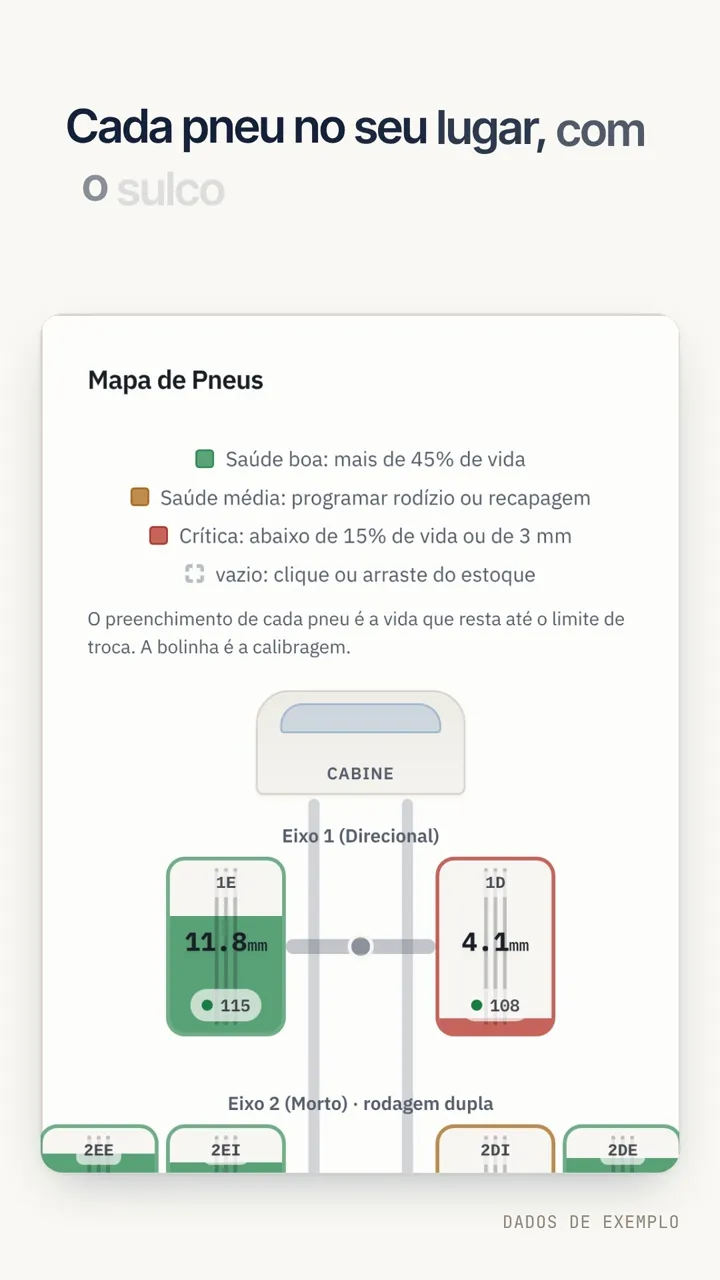
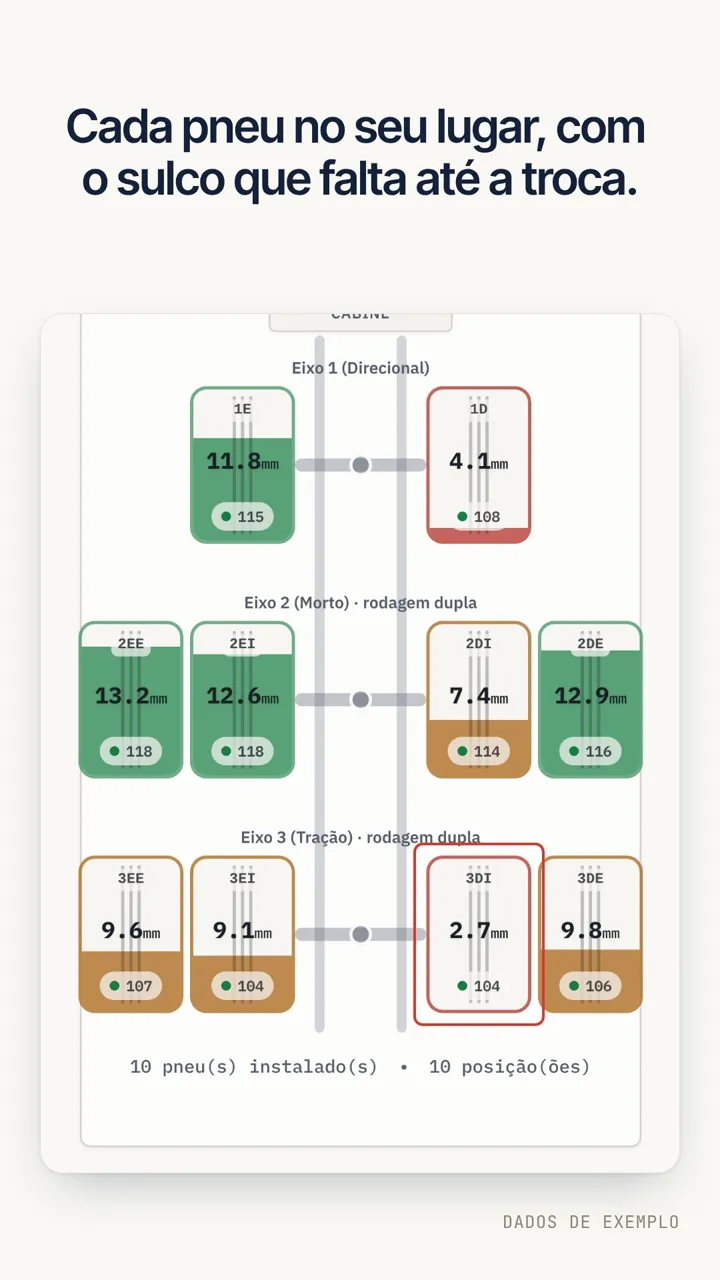
Vídeo da Rastro tocando sozinho no case da inicial e vídeos dos cases sem botões
O case da Rastro na inicial ganha o cartão de vídeo como o da AUTH, com o fundo
claro do aplicativo. Nas páginas de case, o vídeo roda sem som quando aparece
na tela e para fora dela. Capa do vídeo trocada por um quadro parado.

Claude-Session: https://claude.ai/code/session_01E9WneMCWodMVnJEBvg42YX

Changed region(s): [[0.0306, 0.25, 0.9472, 0.9375], [0.0917, 0.0938, 0.9167, 0.1562]]

diff --git a/cases/rastro/index.html b/cases/rastro/index.html
@@ -202,7 +202,7 @@
         </section>
 
         <style>.video-cel{display:none}@media (max-width:767px){.video-pc{display:none}.video-cel{display:block;margin:0 auto}}</style>
-        <p><video class="video-pc" muted loop playsinline controls preload="none" poster="/tela-rastro.webp" width="1280" height="720" style="max-width:100%;height:auto;background:#f9f8f4" aria-label="Vídeo sem som do aplicativo da Rastro: o mapa de pneus do caminhão, a medição pelo celular, as carcaças na recapadora e o painel do mês"><source src="/tela-rastro.mp4" type="video/mp4"><source src="/tela-rastro.webm" type="video/webm"></video><video class="video-cel" muted loop playsinline controls preload="none" poster="/tela-rastro-vertical.webp" width="720" height="1280" style="max-width:100%;height:auto;background:#f9f8f4" aria-label="Vídeo sem som do aplicativo da Rastro: o mapa de pneus do caminhão, a medição pelo celular, as carcaças na recapadora e o painel do mês"><source src="/tela-rastro-vertical.mp4" type="video/mp4"><source src="/tela-rastro-vertical.webm" type="video/webm"></video></p>
+        <p><video class="video-pc video-auto" muted loop playsinline disablepictureinpicture preload="none" poster="/tela-rastro.webp" width="1280" height="720" style="max-width:100%;height:auto;background:#f9f8f4" aria-label="Vídeo sem som do aplicativo da Rastro: o mapa de pneus do caminhão, a medição pelo celular, as carcaças na recapadora e o painel do mês"><source src="/tela-rastro.mp4" type="video/mp4"><source src="/tela-rastro.webm" type="video/webm"></video><video class="video-cel video-auto" muted loop playsinline disablepictureinpicture preload="none" poster="/tela-rastro-vertical.webp" width="720" height="1280" style="max-width:100%;height:auto;background:#f9f8f4" aria-label="Vídeo sem som do aplicativo da Rastro: o mapa de pneus do caminhão, a medição pelo celular, as carcaças na recapadora e o painel do mês"><source src="/tela-rastro-vertical.mp4" type="video/mp4"><source src="/tela-rastro-vertical.webm" type="video/webm"></video></p>
         <p class="suave">O aplicativo de pneus que a GenesisKore construiu para a Rastro. Dados de exemplo.</p>
 
         <h2>O que mais o aplicativo faz?</h2>
@@ -247,6 +247,22 @@
         <p>© 2026 GenesisKore. Sistemas sob medida e consultoria de gestão.</p>
     </footer>
     <script src="/contagem.js" defer></script>
+    <script>
+    (() => {
+        const videos = [...document.querySelectorAll('video.video-auto')];
+        if (!videos.length || !('IntersectionObserver' in window)) return;
+        if (window.matchMedia('(prefers-reduced-motion: reduce)').matches) return;
+        const ver = new IntersectionObserver((entradas) => {
+            entradas.forEach((e) => {
+                const v = e.target;
+                if (e.isIntersecting && e.intersectionRatio >= 0.5 && !document.hidden) { v.preload = 'auto'; v.play().catch(() => {}); }
+                else v.pause();
+            });
+        }, { threshold: [0, 0.5, 0.75] });
+        videos.forEach((v) => { v.muted = true; ver.observe(v); });
+        document.addEventListener('visibilitychange', () => { if (document.hidden) videos.forEach((v) => v.pause()); });
+    })();
+    </script>
     <a class="conversa-fixa" href="/conversar/">Quero meu diagnóstico</a>
 </body>
 </html>

diff --git a/cases/auth/index.html b/cases/auth/index.html
@@ -181,7 +181,7 @@
         <p class="suave">Atualizado em 13/11/2026.</p>
         <blockquote>500% mais capacidade de avaliação, sem contratar mais gente.</blockquote>
         <p class="suave">Número divulgado pela própria AUTH: aumento da capacidade de avaliação da equipe, com as mesmas pessoas.</p>
-        <p><video muted loop playsinline controls preload="none" poster="/tela-auth-fila.webp" width="1006" height="948" style="max-width:100%;height:auto;background:#000" aria-label="Vídeo sem som da plataforma da AUTH: a fila de autenticação, o checklist da peça, o certificado emitido e a conferência pelo celular"><source src="/tela-auth.mp4" type="video/mp4"><source src="/tela-auth.webm" type="video/webm"></video></p>
+        <p><video class="video-auto" muted loop playsinline disablepictureinpicture preload="none" poster="/tela-auth-fila.webp" width="1006" height="948" style="max-width:100%;height:auto;background:#000" aria-label="Vídeo sem som da plataforma da AUTH: a fila de autenticação, o checklist da peça, o certificado emitido e a conferência pelo celular"><source src="/tela-auth.mp4" type="video/mp4"><source src="/tela-auth.webm" type="video/webm"></video></p>
         <p class="suave">A plataforma da AUTH em uso: fila, checklist, certificado e conferência pelo celular. Dados de exemplo.</p>
         <h2>O que o fundador da AUTH diz?</h2>
         <blockquote>&ldquo;A GenesisKore tornou nossos processos na AUTH muito mais rápidos, completos e seguros.&rdquo;</blockquote>
@@ -226,6 +226,22 @@
         <p>© 2026 GenesisKore. Sistemas sob medida e consultoria de gestão.</p>
     </footer>
     <script src="/contagem.js" defer></script>
+    <script>
+    (() => {
+        const videos = [...document.querySelectorAll('video.video-auto')];
+        if (!videos.length || !('IntersectionObserver' in window)) return;
+        if (window.matchMedia('(prefers-reduced-motion: reduce)').matches) return;
+        const ver = new IntersectionObserver((entradas) => {
+            entradas.forEach((e) => {
+                const v = e.target;
+                if (e.isIntersecting && e.intersectionRatio >= 0.5 && !document.hidden) { v.preload = 'auto'; v.play().catch(() => {}); }
+                else v.pause();
+            });
+        }, { threshold: [0, 0.5, 0.75] });
+        videos.forEach((v) => { v.muted = true; ver.observe(v); });
+        document.addEventListener('visibilitychange', () => { if (document.hidden) videos.forEach((v) => v.pause()); });
+    })();
+    </script>
     <a class="conversa-fixa" href="/conversar/">Quero meu diagnóstico</a>
 </body>
 </html>

diff --git a/index.html b/index.html
@@ -1046,6 +1046,24 @@
                             <p class="resultado-numero">Zero</p>
                             <p>trabalho manual entre a medição e a decisão de cada pneu.</p>
                         </div>
+                        <figure class="case-telas case-telas-claro">
+                            <!-- 15/11/2026, pedido do Felipe: o vídeo das telas reais do aplicativo da Rastro, como o da AUTH.
+                                 Sem som, frota inventada (dados de exemplo). Fundo claro porque o aplicativo é claro. -->
+                            <video class="case-video case-video-largo" muted loop playsinline disablepictureinpicture preload="none" data-poster="tela-rastro.webp" width="1280" height="720"
+                                aria-label="Vídeo sem som do aplicativo de pneus que a GenesisKore construiu para a Rastro: o mapa do caminhão, a medição pelo celular, a recapagem e o painel do mês">
+                                <source src="tela-rastro.mp4" type="video/mp4">
+                                <source src="tela-rastro.webm" type="video/webm">
+                            </video>
+                            <figcaption>
+                                <ol class="case-passos-video">
+                                    <li>Cada pneu no seu lugar no caminhão</li>
+                                    <li>A medição pelo celular, um pneu de cada vez</li>
+                                    <li>A recapagem, do envio até a volta</li>
+                                    <li>O que a recapagem evitou de compra no mês</li>
+                                </ol>
+                                <span>O aplicativo da Rastro em uso. Dados de exemplo.</span>
+                            </figcaption>
+                        </figure>
                         <div class="case-historia">
                             <div>
                                 <p class="mini">Antes</p>

diff --git a/styles.css b/styles.css
@@ -4896,3 +4896,33 @@ p, li, dd, blockquote, figcaption span, .lead {
     align-items: center;
     min-height: 44px;
 }
+
+/* 15/11/2026: o cartão do vídeo da Rastro tem o fundo claro do aplicativo dela, e o vídeo é largo (16 por 9). */
+.case-telas-claro {
+    background: #f9f8f4;
+    color: #111;
+    border: 1px solid var(--linha);
+}
+
+.case-telas-claro .case-video {
+    background: #f9f8f4;
+    border-color: rgba(0, 0, 0, 0.12);
+}
+
+.case-telas-claro .case-passos-video li,
+.case-telas-claro .case-passos-video li:last-child {
+    border-color: rgba(0, 0, 0, 0.12);
+}
+
+.case-telas-claro .case-passos-video li::before,
+.case-telas-claro figcaption span {
+    color: #6b6b6b;
+}
+
+.case-video-largo {
+    aspect-ratio: 1280 / 720;
+}
+
+.case-telas-claro .case-video-largo {
+    align-self: center;
+}

diff --git a/execution/gerar_paginas_de_case.py b/execution/gerar_paginas_de_case.py
@@ -47,7 +47,7 @@ for cid,(slug,nome,tit) in CASES.items():
     # 13/11/2026: o número do case diz de onde vem. O da AUTH é o que ela mesma divulga, medido por ela.
     fonte='\n        <p class="suave">Número divulgado pela própria AUTH: aumento da capacidade de avaliação da equipe, com as mesmas pessoas.</p>' if cid=='auth' else ''
     extra='''
-        <p><video muted loop playsinline controls preload="none" poster="/tela-auth-fila.webp" width="1006" height="948" style="max-width:100%;height:auto;background:#000" aria-label="Vídeo sem som da plataforma da AUTH: a fila de autenticação, o checklist da peça, o certificado emitido e a conferência pelo celular"><source src="/tela-auth.mp4" type="video/mp4"><source src="/tela-auth.webm" type="video/webm"></video></p>
+        <p><video class="video-auto" muted loop playsinline disablepictureinpicture preload="none" poster="/tela-auth-fila.webp" width="1006" height="948" style="max-width:100%;height:auto;background:#000" aria-label="Vídeo sem som da plataforma da AUTH: a fila de autenticação, o checklist da peça, o certificado emitido e a conferência pelo celular"><source src="/tela-auth.mp4" type="video/mp4"><source src="/tela-auth.webm" type="video/webm"></video></p>
         <p class="suave">A plataforma da AUTH em uso: fila, checklist, certificado e conferência pelo celular. Dados de exemplo.</p>
         <h2>O que o fundador da AUTH diz?</h2>
         <blockquote>&ldquo;A GenesisKore tornou nossos processos na AUTH muito mais rápidos, completos e seguros.&rdquo;</blockquote>
@@ -59,7 +59,7 @@ for cid,(slug,nome,tit) in CASES.items():
     mais_rastro='''
 
         <style>.video-cel{display:none}@media (max-width:767px){.video-pc{display:none}.video-cel{display:block;margin:0 auto}}</style>
-        <p><video class="video-pc" muted loop playsinline controls preload="none" poster="/tela-rastro.webp" width="1280" height="720" style="max-width:100%;height:auto;background:#f9f8f4" aria-label="Vídeo sem som do aplicativo da Rastro: o mapa de pneus do caminhão, a medição pelo celular, as carcaças na recapadora e o painel do mês"><source src="/tela-rastro.mp4" type="video/mp4"><source src="/tela-rastro.webm" type="video/webm"></video><video class="video-cel" muted loop playsinline controls preload="none" poster="/tela-rastro-vertical.webp" width="720" height="1280" style="max-width:100%;height:auto;background:#f9f8f4" aria-label="Vídeo sem som do aplicativo da Rastro: o mapa de pneus do caminhão, a medição pelo celular, as carcaças na recapadora e o painel do mês"><source src="/tela-rastro-vertical.mp4" type="video/mp4"><source src="/tela-rastro-vertical.webm" type="video/webm"></video></p>
+        <p><video class="video-pc video-auto" muted loop playsinline disablepictureinpicture preload="none" poster="/tela-rastro.webp" width="1280" height="720" style="max-width:100%;height:auto;background:#f9f8f4" aria-label="Vídeo sem som do aplicativo da Rastro: o mapa de pneus do caminhão, a medição pelo celular, as carcaças na recapadora e o painel do mês"><source src="/tela-rastro.mp4" type="video/mp4"><source src="/tela-rastro.webm" type="video/webm"></video><video class="video-cel video-auto" muted loop playsinline disablepictureinpicture preload="none" poster="/tela-rastro-vertical.webp" width="720" height="1280" style="max-width:100%;height:auto;background:#f9f8f4" aria-label="Vídeo sem som do aplicativo da Rastro: o mapa de pneus do caminhão, a medição pelo celular, as carcaças na recapadora e o painel do mês"><source src="/tela-rastro-vertical.mp4" type="video/mp4"><source src="/tela-rastro-vertical.webm" type="video/webm"></video></p>
         <p class="suave">O aplicativo de pneus que a GenesisKore construiu para a Rastro. Dados de exemplo.</p>
 
         <h2>O que mais o aplicativo faz?</h2>
@@ -91,6 +91,25 @@ for cid,(slug,nome,tit) in CASES.items():
             <h3>Relatório por link</h3>
             <p>A transportadora recebe um endereço para ver o relatório da frota dela, que vale por 30 dias.</p>
         </section>''' if cid=='rastro' else ''
+    # 15/11/2026, pedido do Felipe: o vídeo da página do case roda sozinho, sem som, quando aparece na tela,
+    # como os da página inicial. Para fora da tela, com a aba escondida ou com "menos movimento" ligado, fica parado.
+    auto='''
+    <script>
+    (() => {
+        const videos = [...document.querySelectorAll('video.video-auto')];
+        if (!videos.length || !('IntersectionObserver' in window)) return;
+        if (window.matchMedia('(prefers-reduced-motion: reduce)').matches) return;
+        const ver = new IntersectionObserver((entradas) => {
+            entradas.forEach((e) => {
+                const v = e.target;
+                if (e.isIntersecting && e.intersectionRatio >= 0.5 && !document.hidden) { v.preload = 'auto'; v.play().catch(() => {}); }
+                else v.pause();
+            });
+        }, { threshold: [0, 0.5, 0.75] });
+        videos.forEach((v) => { v.muted = true; ver.observe(v); });
+        document.addEventListener('visibilitychange', () => { if (document.hidden) videos.forEach((v) => v.pause()); });
+    })();
+    </script>''' if ('video-auto' in extra or 'video-auto' in mais_rastro) else ''
     pg=f'''<!DOCTYPE html>
 <html lang="pt-BR">
 <head>
@@ -148,7 +167,7 @@ for cid,(slug,nome,tit) in CASES.items():
         <a href="/">Início</a><a href="/sistemas-sob-medida/">Sistemas</a><a href="/consultoria/">Consultoria</a><a href="/sobre/">Sobre</a><a href="/privacidade/">Privacidade</a>
         <p>© 2026 GenesisKore. Sistemas sob medida e consultoria de gestão.</p>
     </footer>
-    <script src="/contagem.js" defer></script>
+    <script src="/contagem.js" defer></script>{auto}
     <a class="conversa-fixa" href="/conversar/">Quero meu diagnóstico</a>
 </body>
 </html>
